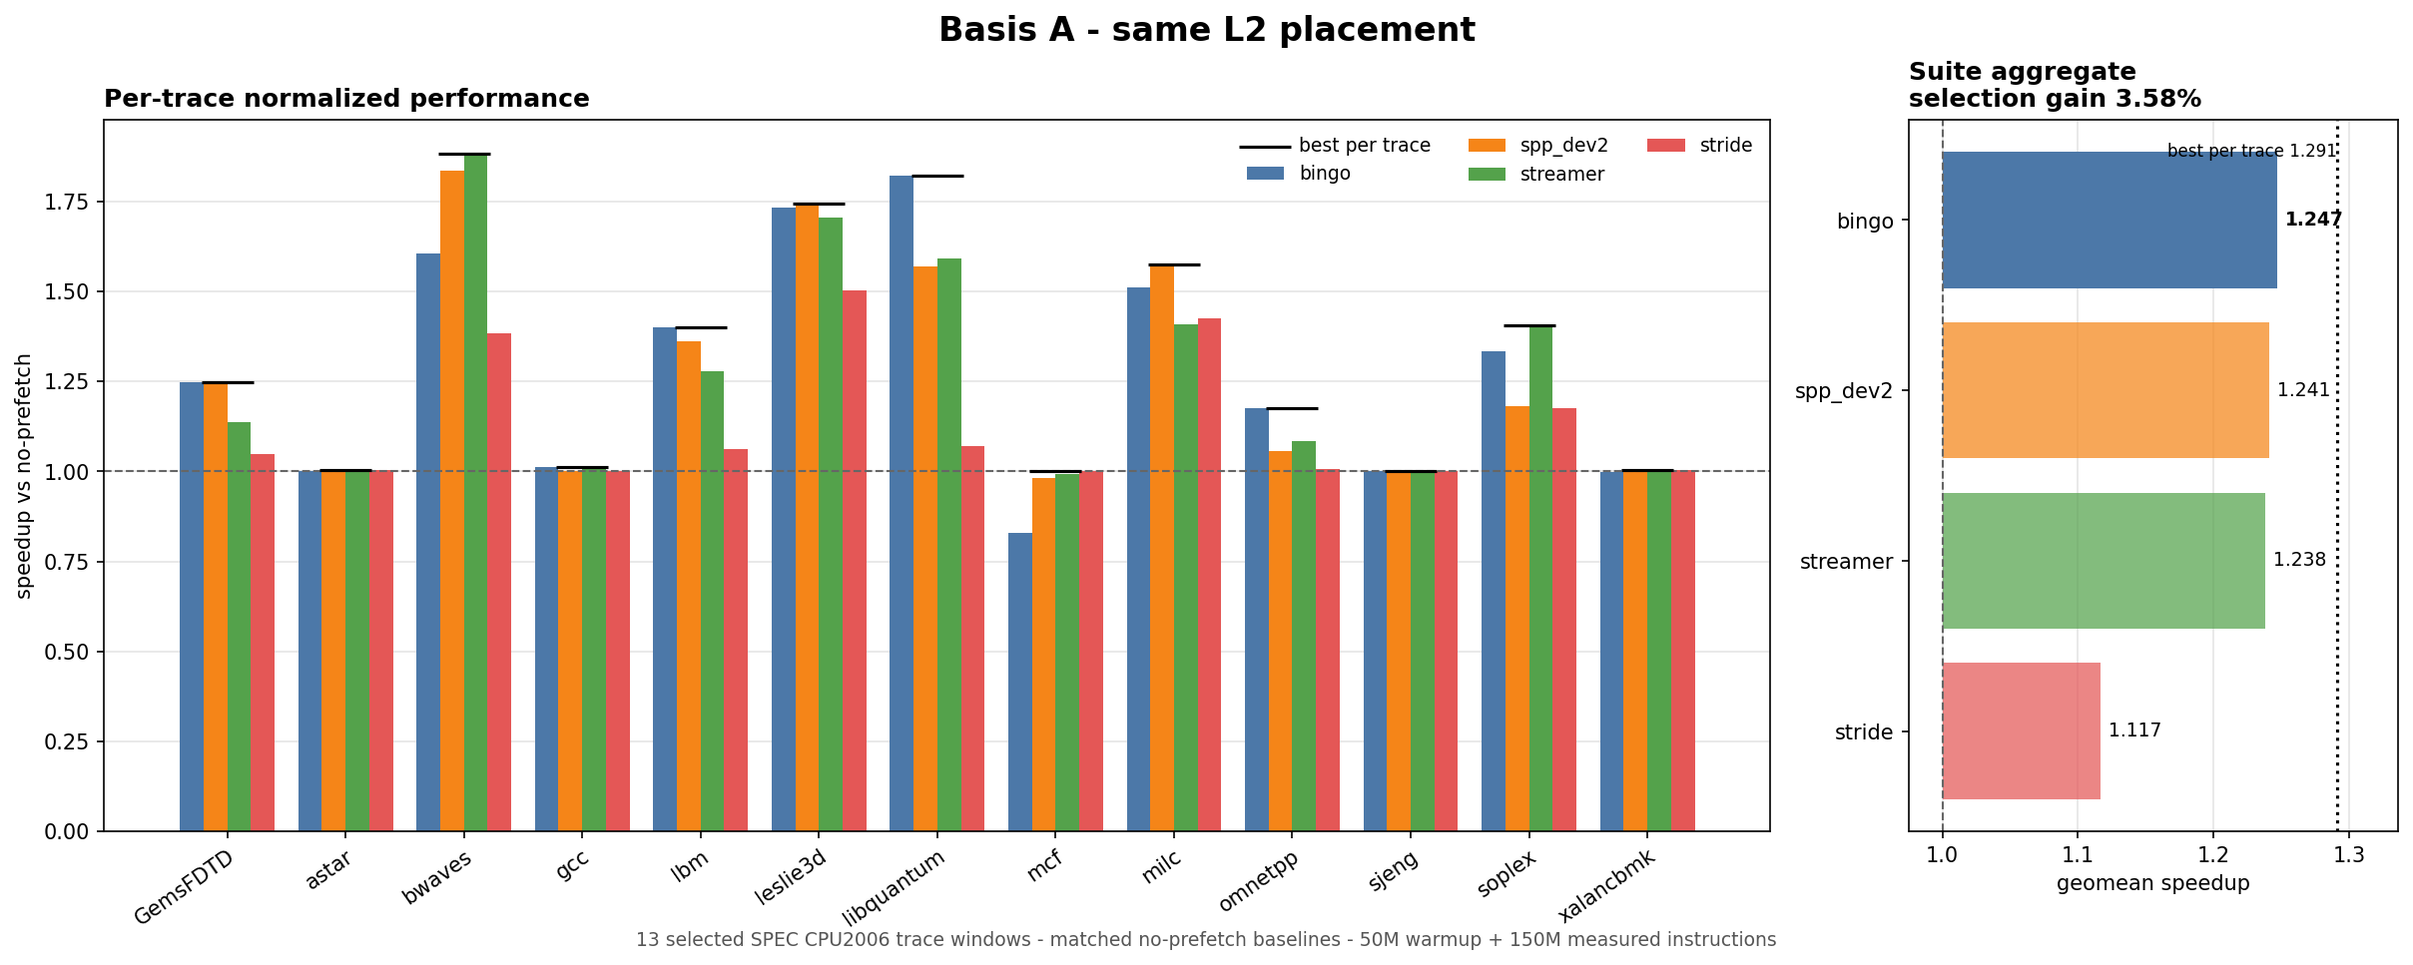
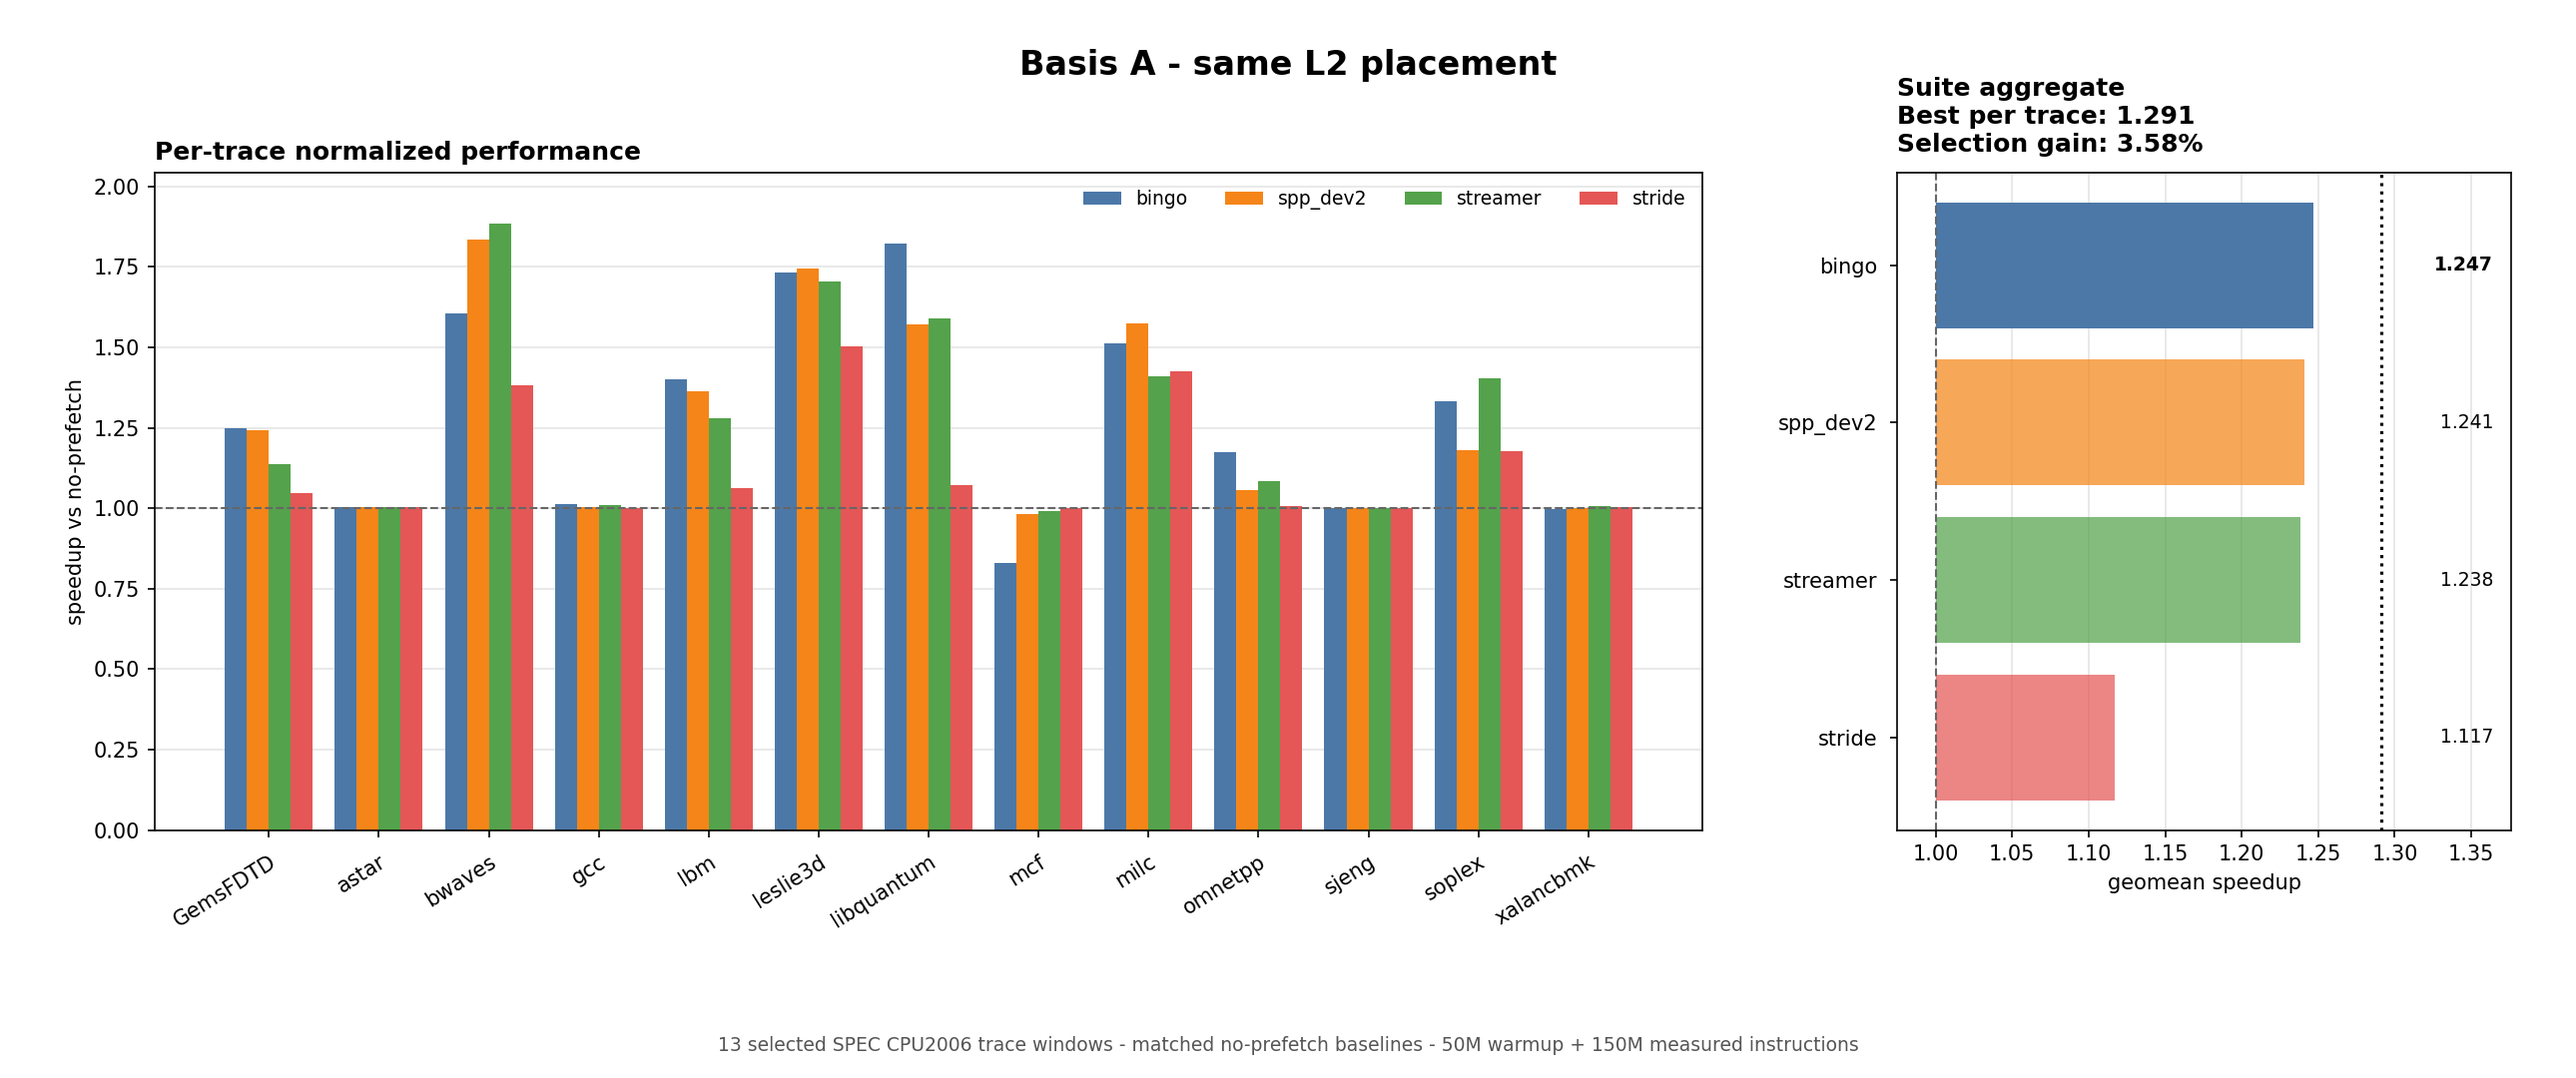
Improve result figures

diff --git a/scripts/py/plot_selection_gain.py b/scripts/py/plot_selection_gain.py
@@ -103,9 +103,15 @@ def main():
     fig, (ax1, ax2) = plt.subplots(
         1,
         2,
-        figsize=(16, 6.2),
-        gridspec_kw={"width_ratios": [3.4, 1]},
-        constrained_layout=True,
+        figsize=(17.2, 7.2),
+        gridspec_kw={"width_ratios": [3.15, 1.25]},
+    )
+    fig.subplots_adjust(
+        left=0.06,
+        right=0.975,
+        top=0.84,
+        bottom=0.23,
+        wspace=0.18,
     )
     x = np.arange(len(traces)); w = 0.8 / len(prefs)
     for i, p in enumerate(prefs):
@@ -117,19 +123,22 @@ def main():
             label=p,
             color=COLORS[p],
         )
-    # Mark the best tested result for each trace.
-    ax1.scatter(x, [best_by_trace[t] for t in traces], marker="_", s=600,
-                color="black", zorder=5, label="best per trace")
     ax1.axhline(1.0, color="#666666", ls="--", lw=1.0)
     ax1.set_xticks(x)
-    ax1.set_xticklabels(traces, rotation=35, ha="right", rotation_mode="anchor")
+    ax1.set_xticklabels(traces, rotation=32, ha="right", rotation_mode="anchor")
+    ax1.tick_params(axis="x", pad=7)
     ax1.set_ylabel("speedup vs no-prefetch")
     ax1.set_title("Per-trace normalized performance", loc="left", weight="bold")
     ax1.grid(axis="y", color="#E5E5E5", lw=0.8)
     ax1.set_axisbelow(True)
-    ax1.legend(fontsize=9, ncol=3, frameon=False, loc="upper right")
+    ax1.legend(fontsize=9, ncol=len(prefs), frameon=False, loc="upper right")
+    ax1.set_ylim(0, max(best_by_trace.values()) + 0.16)
 
     order = sorted(prefs, key=lambda p: geo[p])
+    lower = min([1.0] + list(geo.values())) - 0.025
+    data_max = max([best_per_trace_geomean] + list(geo.values()))
+    upper = data_max + 0.085
+    label_x = upper - 0.012
     for position, p in enumerate(order):
         value = geo[p]
         left = min(1.0, value)
@@ -142,34 +151,28 @@ def main():
             alpha=1.0 if p == best_fixed else 0.72,
         )
         ax2.text(
-            value + 0.006,
+            label_x,
             position,
             f"{value:.3f}",
             va="center",
-            ha="left",
+            ha="right",
             fontsize=9,
             weight="bold" if p == best_fixed else "normal",
         )
     ax2.axvline(1.0, color="#666666", ls="--", lw=1.0)
     ax2.axvline(best_per_trace_geomean, color="black", ls=":", lw=1.5)
-    ax2.text(
-        best_per_trace_geomean,
-        len(order)-0.65,
-        f"best per trace {best_per_trace_geomean:.3f}",
-        fontsize=8,
-        ha="right",
-        va="bottom",
-    )
     ax2.set_yticks(range(len(order)))
     ax2.set_yticklabels(order)
+    ax2.tick_params(axis="y", pad=6)
     ax2.set_xlabel("geomean speedup")
     ax2.set_title(
-        f"Suite aggregate\nselection gain {selection_gain*100:.2f}%",
+        "Suite aggregate\n"
+        f"Best per trace: {best_per_trace_geomean:.3f}\n"
+        f"Selection gain: {selection_gain*100:.2f}%",
         loc="left",
         weight="bold",
+        pad=10,
     )
-    lower = min([1.0] + list(geo.values())) - 0.025
-    upper = max([best_per_trace_geomean] + list(geo.values())) + 0.045
     ax2.set_xlim(lower, upper)
     ax2.grid(axis="x", color="#E5E5E5", lw=0.8)
     ax2.set_axisbelow(True)
@@ -178,17 +181,18 @@ def main():
         f"Basis {a.basis} - {BASIS_LABELS[a.basis]}",
         fontsize=16,
         weight="bold",
+        y=0.955,
     )
     fig.text(
         0.5,
-        -0.01,
+        0.025,
         "13 selected SPEC CPU2006 trace windows - matched no-prefetch "
         "baselines - 50M warmup + 150M measured instructions",
         ha="center",
         fontsize=9,
         color="#555555",
     )
-    fig.savefig(a.out, dpi=150, bbox_inches="tight", facecolor="white")
+    fig.savefig(a.out, dpi=150, facecolor="white")
     print(f"\n-> wrote {a.out}")
 
 if __name__ == "__main__":

diff --git a/README.md b/README.md
@@ -103,9 +103,11 @@ The main observations are:
   trace. On average across all traces, however, choosing a separate setting
   for every trace adds only a small improvement over one good fixed setting.
 
-The [Basis-B figure](results/analysis/selection_gain_basis_B.png) includes IPCP
-using both L1D and L2. Detailed numerical results are in
-[`docs/FINDINGS.md`](docs/FINDINGS.md).
+Basis B includes IPCP using both L1D and L2:
+
+![Prefetchers using their original implementations](results/analysis/selection_gain_basis_B.png)
+
+Detailed numerical results are in [`docs/FINDINGS.md`](docs/FINDINGS.md).
 
 ## Experiment stages
 
